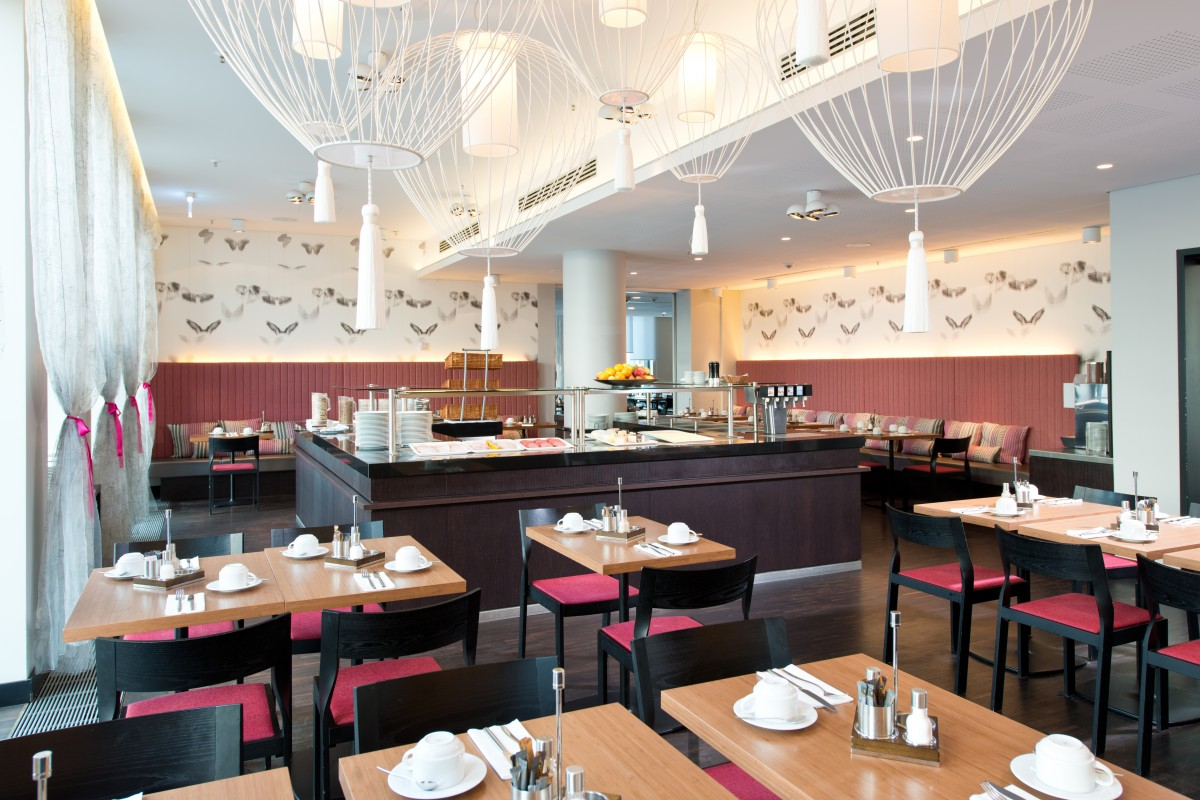
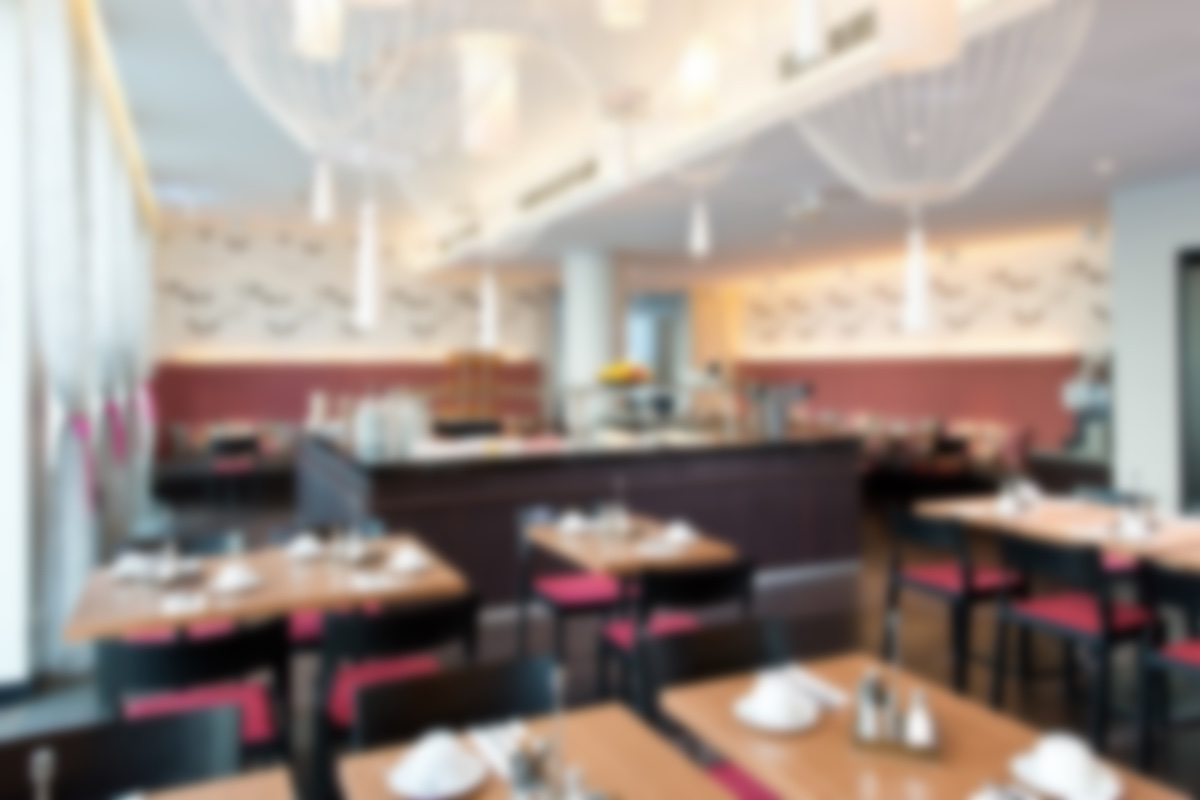
Fix parallax for firefox and IE

diff --git a/src/components/parallax/Parallax.css b/src/components/parallax/Parallax.css
@@ -1,21 +1,27 @@
 .Parallax {
-  height: 100vh;
+  position: relative;
+  width: 100%;
+  height: 100%;
+  overflow-x: hidden;
+  perspective: 8px;
+  perspective-origin: 0%;
   display: flex;
-  justify-content: center;
   align-items: center;
+  justify-content: space-around;
+  overflow: hidden;
 }
 
 .background {
-  height: 105%;
-  width: 105%;
+  height: 100%;
+  width: 100%;
   background-attachment: fixed;
   background-position: center;
   background-repeat: no-repeat;
   background-size: cover;
-  filter: blur(6px);
   z-index: -1;
   position: absolute;
   background-color: black;
+  overflow: hidden;
 }
 
 h2 {

diff --git a/src/components/parallax/Parallax.jsx b/src/components/parallax/Parallax.jsx
@@ -7,7 +7,7 @@ import { theme } from '../../utils';
 import './Parallax.css';
 
 const Parallax = ({ background, heading, style }) => (
-  <section className="Parallax" style={{ color: theme.text.light, ...style }}>
+  <section className="Parallax" style={{ backgroundImage: `url(${background})`, color: theme.text.light, ...style }}>
     <div className="background" style={{ backgroundImage: `url(${background})` }} />
     {heading ? <h2>{heading}</h2> : null}
   </section>

diff --git a/src/index.jsx b/src/index.jsx
@@ -11,7 +11,4 @@ ReactDOM.render(
   document.getElementById('root'),
 );
 
-// If you want your app to work offline and load faster, you can change
-// unregister() to register() below. Note this comes with some pitfalls.
-// Learn more about service workers: https://bit.ly/CRA-PWA
-serviceWorker.unregister();
+serviceWorker.register();

diff --git a/src/components/bookingModal/BookingModal.jsx b/src/components/bookingModal/BookingModal.jsx
@@ -1,0 +1,10 @@
+import React from 'react';
+
+const BookingModal = () => (
+  <div className="BookingModal">
+    <FloorPlan />
+    <DateSlider />
+  </div>
+);
+
+export default BookingModal;

diff --git a/src/index.css b/src/index.css
@@ -9,6 +9,7 @@ body {
   -webkit-font-smoothing: antialiased;
   -moz-osx-font-smoothing: grayscale;
   overflow-x: hidden;
+  height: 100%;
 }
 
 code {

diff --git a/src/utils/colour.js b/src/utils/colour.js
@@ -15,4 +15,4 @@ class Colour {
   }
 }
 
-module.exports = Colour;
+export default Colour;

diff --git a/src/components/bookingModal/index.js b/src/components/bookingModal/index.js
@@ -1,0 +1,3 @@
+import BookingModal from './BookingModal';
+
+export default BookingModal;
